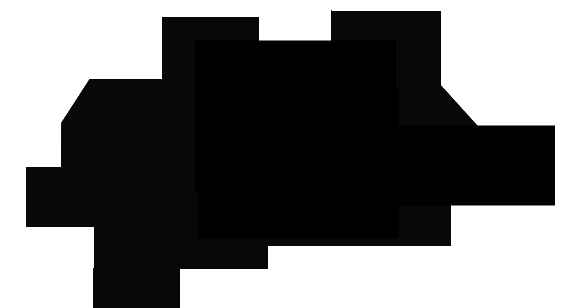
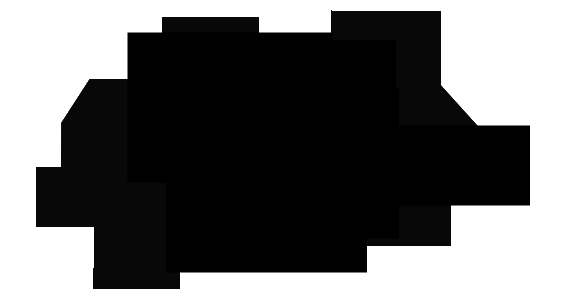
update general style

diff --git a/src/pages/Home.js b/src/pages/Home.js
@@ -4,21 +4,25 @@ import CiCloud from '../component/CiCloud/CiCloud';
 import LeadIn from '../component/LeadIn/LeadIn'
 import PartOne from '../component/Part'
 import Title from '../component/Title'
-import Footer from '../component/Footer'
+import Footer from './Footer'
 import TextAnalyze from '../component/TextAnalyze/TextAnalyze'
 import ChartTitle from '../component/Part/Title'
 
 import './style/style.less'
 
 export default class Home extends Component {
-
+  constructor() {
+    super();
+    this.info = ["悠悠千年间，文人墨客为抒其志，挥笔写就众多名作佳篇，然其皎皎者，多为男子。女性或锁于深闺，缺少见闻，或屏息敛气，惟命是从，囿于米盐琐屑。中国千年的文学长河中，难以寻觅女性身影。", 
+    "悠悠千年间，文人墨客为抒其志，挥笔写就众多名作佳篇，然其皎皎者，多为男子。女性或锁于深闺，缺少见闻，或屏息敛气，惟命是从，囿于米盐琐屑。中国千年的文学长河中，难以寻觅女性身影。"]
+  }
   componentWillMount(){
     this.titleContent = [
       { "title": "一抹倩影，写就传奇", "info": "悠悠千年间，文人墨客为抒其志，挥笔写就众多名作佳篇，然其皎皎者，多为男子。女性或锁于深闺，缺少见闻，或屏息敛气，惟命是从，囿于米盐琐屑。中国千年的文学长河中，难以寻觅女性身影。<br>然唐历盛世之治，世风开放，文化繁荣，女子允许识经史，作诗文，加之初唐时期武则天颁布一系列政令措施，肯定女性价值，使得唐朝的女性诗歌创作达到了前所未有的高度。她们中有女皇、后妃、女官、宫娥、娟尼、蟀妾、名媛、闺秀，尽管身份不同，地位不同，却构成了一个五光十色、争奇斗妍的女性诗苑。让我们重新翻开历史的画卷，去寻那一抹丽色，品一品千年前的别样传奇。" },
       { "title": "一声轻叹，倾诉相思", "info": "“诗缘情而绮靡”，她们以笔书情、以诗言志；她们在诗中书写对真挚爱情的渴望、对自主婚姻的追求；抒发对时事政治的所思所感，对自身怀才不遇的哀叹。<br>那些诗行，不仅浸润了她们的缱绻柔情，亦写就了她们的豪情壮志。"},
       { "title": "一次相逢，铭刻回忆", "info": "黄周星曰：“嗟乎！世间至难得者佳人也，若佳人而才，岂非难中之难？乃往往怫郁流离，多愁鲜欢，甚至横被刑戮，不得其死。如张丽华、上官昭容，皆斩于军前；王韫秀、鱼幼微具毙于杖下。白刃血蝤蛴之领，赤棒肉凝脂之肤，人生惨辱，至此已极。”" },
       { "title": "总结", "info": "黄周星曰：“嗟乎！世间至难得者佳人也，若佳人而才，岂非难中之难？乃往往怫郁流离，多愁鲜欢，甚至横被刑戮，不得其死。如张丽华、上官昭容，皆斩于军前；王韫秀、鱼幼微具毙于杖下。白刃血蝤蛴之领，赤棒肉凝脂之肤，人生惨辱，至此已极。”" },
-    ]
+    ];
   }
 
   render() {
@@ -33,14 +37,14 @@ export default class Home extends Component {
 
         {/* 第二部分 */}
         <Title titleText={this.titleContent[1].title} titleInfo={this.titleContent[1].info}/>
+        <ChartTitle title="诗人诗作字频词频图"/>
+        <p className='title-info'>{ this.info[0] }</p>
         <div id="ci-cloud">
-          <ChartTitle title="诗人诗作字频词频图"/>
           <CiCloud />
         </div>
-        <ChartTitle title="诗人诗作字频词频图" />
+        <ChartTitle title="女诗人高频意象分析" />
+        <p className='title-info'>{ this.info[1] }</p>
         <TextAnalyze />
-        
-
         
         {/* 第三部分 */}
         <Title titleText={this.titleContent[2].title} titleInfo={this.titleContent[2].info}/>
@@ -53,11 +57,7 @@ export default class Home extends Component {
 
         {/* 脚注 */}
         <Footer />
-
-
       </div>
-
-        
     )
   }
 }

diff --git a/src/pages/Footer.js b/src/pages/Footer.js
@@ -1,38 +1,33 @@
 import React from 'react'
-import '../pages/style/style.less'
+import './style/style.less'
+import zju from './style/zju.png'
+import xhw from './style/xhw.png'
 
 export default class Footer extends React.Component{
     render(){
         return (
             <div className="footer">
                 <div className="footer-icon">
-                    {/* < img src={data_news} /> */}
-                    
-                    {/* < img src={zju_vag} /> */}
+                    < img src={ xhw } />  
+                    <p>&nbsp;</p>   
+                    < img src={zju } width='10%' syle={{
+                        position:'relative',
+                        left:'20%'
+                    }}/>
                 </div>
-
                 <div className="copyright">
                     <p>
-                        监制：陈为，马秩群
-                    </p >
-                    {/* <p>
-                        统筹：马倩，张玮，潘如晟
-                    </p > */}
+                        监制：陈为 马秩群
+                    </p>
                     <p>
                         技术指导：潘如晟
                     </p >
-                    {/* <p>
-                        诗词指导：姚逸超
-                    </p > */}
                     <p>
                         文案：熊玉兰
                     </p >
                     <p>
                         设计：朱筱涵
                     </p >
-                    {/* <p>
-                        朗诵：刘子华
-                    </p > */}
                     <p>
                         数据分析：周于思
                     </p >

diff --git a/src/component/CiCloud/CiCloud.js b/src/component/CiCloud/CiCloud.js
@@ -147,7 +147,8 @@ export default class CiCloud extends React.Component {
             color:'maroon',
             position:'relative',
             left:'24%',
-            top:'-10%'
+            top:'-10%',
+            bottom:'20%'
           }}>全部诗人</p>
         <p  style={{
             width: '20%',
@@ -158,20 +159,22 @@ export default class CiCloud extends React.Component {
             color:'maroon',
             position:'relative',
             left:'-14%',
-            top:'-10%'
+            top:'-10%',
+            bottom:'20%'
           }}>女性诗人</p>
         <div 
           className="radio"
           style = {{
             position:'relative',
-            left: '25%',
+            left: '24%',
             fontSize: '18px',
             fontFamily:'W1',
-            top:'5%'
+            top:'5%',
+            bottom:'10%'
           }}> 
         <Radio.Group style={{
           backgroundColor: 'transparent',
-          fontFamily:'W9'
+          fontFamily:'W9',
         }}
         onChange={this.onRadioChange} value={this.state.value} buttonStyle="solid">
           <Radio.Button value={0}>词频</Radio.Button>

diff --git a/src/pages/style/style.less b/src/pages/style/style.less
@@ -1,7 +1,7 @@
 @pos: relative;
 @posA: absolute;
 
-.layout{ position: @pos; padding-top: 100px; width: 98%; left: 1%;}
+.layout{ position: @pos; padding-top: 2%; width: 98%; left: 1%;}
 
  #ci-cloud, #relation, .footer{ .layout; }
 
@@ -22,22 +22,33 @@
 	position: @pos;
 	.footer-icon{
 		position: @pos;
-		left:20%;
-		width:20%;
+		top:10%;
+		left:35%;
+		width:80%;
 	}
 	.copyright{
 		width: 30%;
 		position: @posA;
-		right: 5%;
-		top: 10%;
+		right: 15%;
+		top: 15%;
 	}
 	
 }
 
 .title-style{
 	width: 50%;
-	margin: 0 0 -4% 8%;  
+	margin: 10% 20% -6% 36%;  
 	font-size: 2.9em;
 	font-family: "W2";
 	color: black;
+}
+
+.title-info{
+	text-indent: 2em;
+	line-height: 1.8em;
+	font-size: 1.5em; 
+	width: 72%;
+	margin: 9% 14% -2% 14%;
+	color: #352823;
+	font-family: 'W1'
 }

diff --git a/src/component/Relation/AllRelation.js b/src/component/Relation/AllRelation.js
@@ -145,6 +145,24 @@ export default class AllRelation extends React.Component {
 					<text className='noteText'
 						x='1850'
 						y='110'>女性诗人</text>
+					
+					<line x1='1830' y1='290' x2='1860' y2='250' style={{
+						stroke : '#98623c',
+						strokeWidth: '4'
+					}} />
+					
+					<text className='noteText'
+						x='1800'
+						y='310'>男诗人之间的社交关系</text>
+					
+					<line x1='1780' y1='290' x2='1810' y2='250' style={{
+						stroke : '#ca6924',
+						strokeWidth: '2'
+					}} />
+					
+					<text className='noteText'
+						x='1850'
+						y='310'>女诗人直接参与的社交关系</text>
 
 					<image 
 						x='20'

diff --git a/src/component/Part/Title.js b/src/component/Part/Title.js
@@ -7,6 +7,5 @@ export default class Title extends React.Component {
         return (
             <p id={titleid} className="title-style">{title}</p>
         )
-        
     }
 }

diff --git a/src/index.css b/src/index.css
@@ -16,7 +16,7 @@
 body {
   margin: 0;
   padding: 0;
-  font-family: 'W9';
+  font-family: 'W2';
   -webkit-user-select:none;
   -moz-user-select:none;
   -ms-user-select:none;

diff --git a/src/component/Title/style/style.less b/src/component/Title/style/style.less
@@ -7,7 +7,7 @@
     width: 90%;
     position: relative;
     left: 5%;
-    margin: 5% 0;
+    margin: 12% 0%;
 
     .title-text{
         text-align: center;

diff --git a/src/component/Part/style/style.less b/src/component/Part/style/style.less
@@ -32,7 +32,6 @@
         font-size: 2.9em;
         font-family: "W2";
         color: black;
-        
     }
 
     .choose-style{
